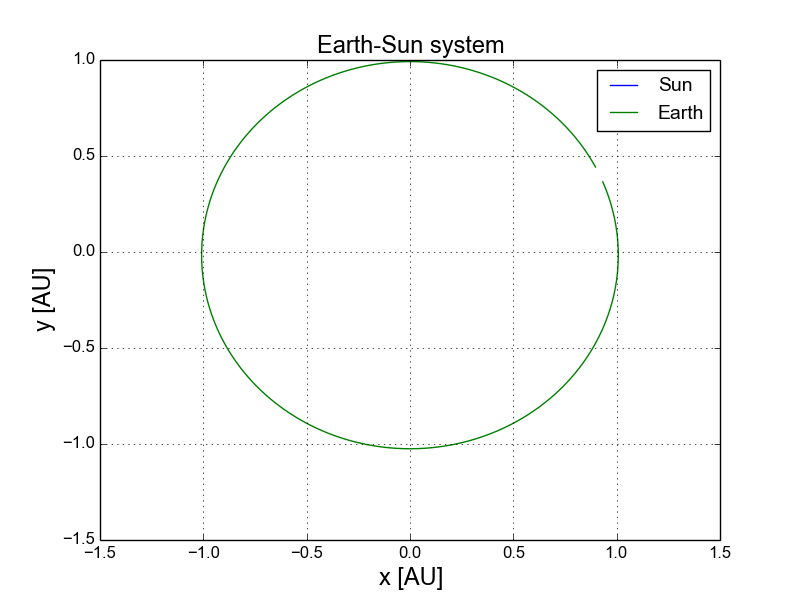
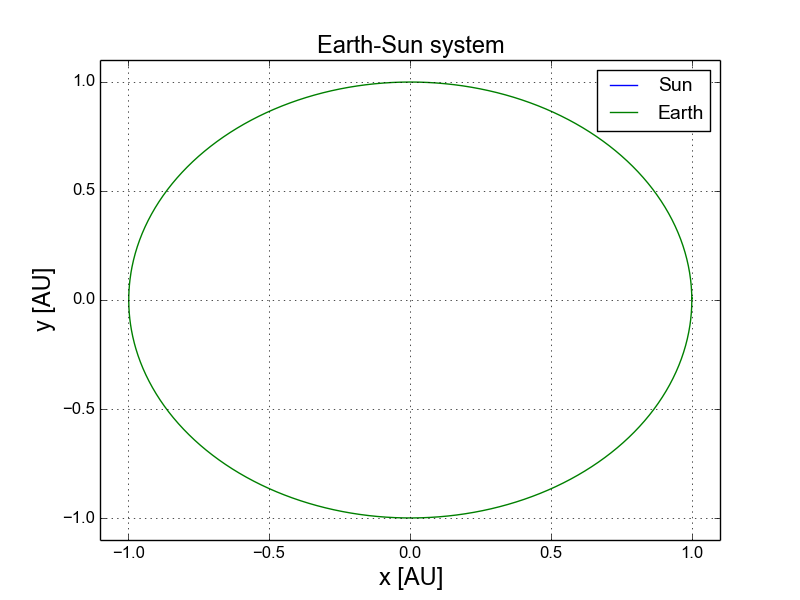
adding planets and 3d plot

diff --git a/src/main.cpp b/src/main.cpp
@@ -61,10 +61,8 @@ int main(int argc, char *argv[])
      *  - scale mass with the solar mass
      *  - scale distance and velocity to [AU] and [AU/day]? im confused
      *
-     * - Add velocity verlet integration and forward euler
      * - Write to file some way / solarsystem has such an elegant way of opening files only once :(
      * - WHAT THE FUCK IS EVEN WRITTEN TO FILE?????
-     * - And why does it unexpectedly finish????!?!??!!??!!?!???!?!?!11111
      * - We might have to manually set the Sun position in (0,0,0) each iteration for the first tasks
      *
      * - Maybe add folders in benchmarks for the different tasks, so as to make it more readable?
@@ -99,8 +97,8 @@ int main(int argc, char *argv[])
             v_y0 = atof(argv[3]);
         }
 
-        // Creating filename for this part
-        string filename = "../benchmarks/ES/positions_dt"+to_string(dt)+"_N"+to_string(num_timesteps)+"_vy"+to_string(v_y0)+".xyz";
+        // Creating filename for this task
+        string filename = "../benchmarks/ES/pos_dt"+to_string(dt)+"_N"+to_string(num_timesteps)+"_vy"+to_string(v_y0)+".xyz";
 
         solarSystem.createCelestialBody(vec3(0,0,0),vec3(0,0,0),1.0); // adding the sun
         // initializing some stuff
@@ -149,16 +147,20 @@ int main(int argc, char *argv[])
         // Adding objects to the solar system
         solarSystem.createCelestialBody(vec3(0,0,0),vec3(0,0,0),1.0); // adding the Sun
 
+        // Relative masses, in units [M_sun]
+        double M_sun = 2e30;             // mass of the Sun in kg
+        double M_earth = 6e24/M_sun;     // rel. mass of the Earth
+        double M_jupiter = 1.9e27/M_sun; // rel. mass of Jupiter
+
         // Adding the Earth
         vec3 pos_E = vec3(9.00219e-1, 4.36991e-1, -1.77691e-4);  // position [AU]
         vec3 vel_E = vec3(-7.76495e-3, 1.54282e-2, -4.06713e-7); // velocity [AU/day]
-        solarSystem.createCelestialBody(pos_E, vel_E*365, 3e-6); // adding the Earth
+        solarSystem.createCelestialBody(pos_E, vel_E*365.25, M_earth); // adding the Earth
 
         // Adding Jupiter
         vec3 pos_J = vec3(-5.42632, -4.82222e-1, 1.23357e-1);    // position [AU]
         vec3 vel_J = vec3(5.81068e-4, -7.16029e-3, 1.67576e-5);  // velocity [AU/day]
-
-        solarSystem.createCelestialBody(pos_J, vel_J*365, factor*1e-3); // adding Jupiter
+        solarSystem.createCelestialBody(pos_J, vel_J*365.25, factor*M_jupiter); // adding Jupiter
 
         solarSystem.writeToFile(filename); //initializing file
         Integrator integrator(dt,method);
@@ -177,10 +179,88 @@ int main(int argc, char *argv[])
 
     }
 
+    /////////////////////////////////////////////
+    ///   Final model of entire solar system  ///
+    /////////////////////////////////////////////
     else if(strcmp(argv[1], "WS") == 0)
     {
-        cout << "So I'm GLaD I got burned." << endl;
+        // Creating filename
+        string filename = "../benchmarks/WS/pos_dt"+to_string(dt)+"_N"+to_string(num_timesteps)+".xyz";
+
+        // Relative masses, in units [M_sun]
+        double M_sun = 2e30;              // mass of the Sun in kg
+        double M_mercury = 2.4e23/M_sun;  // rel. mass of Mercury
+        double M_venus = 4.9e24/M_sun;    // rel. mass of Venus
+        double M_earth = 6e24/M_sun;      // rel. mass of the Earth
+        double M_mars = 6.6e23/M_sun;     // rel. mass of Mars
+        double M_jupiter = 1.9e27/M_sun;  // rel. mass of Jupiter
+        double M_saturn = 5.5e26/M_sun;   // rel. mass of Saturn
+        double M_uranus = 8.8e25/M_sun;   // rel. mass of Uranus
+        double M_neptune = 1.03e26/M_sun; // rel. mass of Neptune
+        double M_pluto = 1.31e22/M_sun;   // rel. mass of Pluto
+
+        // Adding objects to the solar system
+        vec3 pos_sun = vec3( 3.557522499727856E-03,  3.436899814085439E-03, -1.596344425455737E-04); // position [AU]
+        vec3 vel_sun = vec3(-2.030857186518649E-06,  6.828431295519784E-06,  4.169177553390423E-08); // velocity [AU/day]
+        solarSystem.createCelestialBody(pos_sun, vel_sun, 1.0); // adding the Sun in solar system barycenter
+
+        // Adding Mercury
+        vec3 pos_mercury = vec3(-3.879399114091706E-01, -2.710305092518798E-02,  3.326156756039202E-02); // position [AU]
+        vec3 vel_mercury = vec3(-3.666413559516294E-03, -2.683296386126161E-02, -1.856913029011958E-03); // velocity [AU/day]
+        solarSystem.createCelestialBody(pos_mercury, vel_mercury*365.25, M_mercury); // adding Mercury
+
+        // Adding Venus
+        vec3 pos_venus = vec3( 2.768509256072073E-01, -6.707683947636957E-01, -2.517488922555787E-02);   // position [AU]
+        vec3 vel_venus = vec3( 1.860690284828718E-02,  7.536836731263053E-03, -9.705618181506076E-04);   // velocity [AU/day]
+        solarSystem.createCelestialBody(pos_venus, vel_venus*365.25, M_venus); // adding Venus
+
+        // Adding the Earth
+        vec3 pos_earth = vec3( 9.002187374164167E-01, 4.369907064244718E-01, -1.776909578696060E-04);    // position [AU]
+        vec3 vel_earth = vec3(-7.764951739652256E-03, 1.542821220223306E-02, -4.067127050855086E-07);    // velocity [AU/day]
+        solarSystem.createCelestialBody(pos_earth, vel_earth*365.25, M_earth); // adding the Earth
+
+        // Adding Mars
+        vec3 pos_mars = vec3( 1.193657284115136E+00, -6.978436624748694E-01, -4.406298715121766E-02);     // position [AU]
+        vec3 vel_mars = vec3( 7.634665383846734E-03,  1.326168661732281E-02,  9.038452721655709E-05);     // velocity [AU/day]
+        solarSystem.createCelestialBody(pos_mars, vel_mars*365.25, M_mars); // adding Mars
+
+        // Adding Jupiter
+        vec3 pos_jupiter = vec3(-5.426315241208865E+00, -4.822215431711254E-01, 1.233572936426657E-01);   // position [AU]
+        vec3 vel_jupiter = vec3( 5.810683650779558E-04, -7.160289109931362E-03, 1.675759064981599E-05);   // velocity [AU/day]
+        solarSystem.createCelestialBody(pos_jupiter, vel_jupiter*365.25, M_jupiter); // adding Jupiter
+
+        // Adding Saturn
+        vec3 pos_saturn = vec3(-2.246529956275636E+00, -9.779906769909475E+00,  2.594563214268305E-01);   // position [AU]
+        vec3 vel_saturn = vec3( 5.132048253878187E-03, -1.266819166886991E-03, -1.820892763587737E-04);   // velocity [AU/day]
+        solarSystem.createCelestialBody(pos_saturn, vel_saturn*365.25, M_saturn); // adding Saturn
+
+        // Adding Uranus
+        vec3 pos_uranus = vec3( 1.845714208857284E+01,  7.575248291656612E+00, -2.109811593159080E-01);   // position [AU]
+        vec3 vel_uranus = vec3(-1.522058331202997E-03,  3.455221416420103E-03,  3.261108191126768E-05);   // velocity [AU/day]
+        solarSystem.createCelestialBody(pos_uranus, vel_uranus*365.25, M_uranus); // adding Uranus
+
+        // Adding Neptune
+        vec3 pos_neptune = vec3( 2.826500658751187E+01, -9.910371276589974E+00, -4.473108323922165E-01);  // position [AU]
+        vec3 vel_neptune = vec3( 1.017401746439024E-03,  2.980597140971018E-03, -8.489925094644433E-05);  // velocity [AU/day]
+        solarSystem.createCelestialBody(pos_neptune, vel_neptune*365.25, M_neptune); // adding Neptune
+
+        // Adding Pluto
+        vec3 pos_pluto = vec3( 9.436138126711999E+00, -3.181728263243627E+01,  6.751503215275325E-01);    // position [AU]
+        vec3 vel_pluto = vec3( 3.069571857572786E-03,  2.445305051568931E-04, -9.024173240192213E-04);    // velocity [AU/day]
+        solarSystem.createCelestialBody(pos_pluto, vel_pluto*365.25, M_pluto); // adding Pluto
+
+        // Integrating the system
+        solarSystem.writeToFile(filename); //initializing file
+        Integrator integrator(dt,method);
+
+        for (int i=0; i<num_timesteps; i++)
+        {
+            integrator.integrateOneStep(solarSystem);
+            solarSystem.writeToFile(filename);
+        }
+
     }
+
     else if(strcmp(argv[1], "GM") == 0)
     {
         cout << "Think of all the things we learned." << endl;
@@ -193,3 +273,5 @@ int main(int argc, char *argv[])
 
     return 0;
 }
+
+

diff --git a/src/solar_system.py b/src/solar_system.py
@@ -1,54 +1,76 @@
 from pylab import *
+import sys
 
-N = 1000 # need this, need to change naming convention of files
-# if name contains N, we could just fill arrays instead of lists
-#filename = '../benchmarks/ES/positions_dt0.001000_N1000_vy6.280000.xyz'
-filename = '../benchmarks/ESJ/pos_dt0.001000_N1000_m1.000000.xyz'
-data = open(filename,'r')
-
-# I am most definitely overcomplicating this
-i = 0
-j = 0
-k = 0
-m = 0
-for line in data:
-    if i == 0:
-        num_bodies = int(line)
-        positions = [zeros((N,3)) for a in range(num_bodies)]
-        j += 1
-    elif i == j*(num_bodies+2):
-        k = 0
-        j += 1
-    elif not line.startswith('Comment'):
-        a = line.split(' ')
-        positions[k][int(m)] = (array([float(a[1]),float(a[2]),float(a[3])]))
-
-        k += 1
-        m += 1./num_bodies
-    i += 1
-
-# Plot ES
-
-plot(positions[0][:,0],positions[0][:,1],label='Sun')
-plot(positions[1][:,0],positions[1][:,1],label='Earth')
-xlabel('x [AU]',size=17)
-ylabel('y [AU]',size=17)
-title('Earth-Sun system',size=17)
-grid('on')
-legend(fontsize=14)
-savefig('../figures/earth_sun.png')
-show()
+def read_file(filename, N):
+    data = open(filename,'r')
+    # I am most definitely overcomplicating this
+    i = 0
+    j = 0
+    k = 0
+    m = 0
+    for line in data:
+        if i == 0:
+            num_bodies = int(line)
+            positions = [zeros((N,3)) for a in range(num_bodies)]
+            j += 1
+        elif i == j*(num_bodies+2):
+            k = 0
+            j += 1
+        elif not line.startswith('Comment'):
+            a = line.split(' ')
+            positions[k][int(m)] = (array([float(a[1]),float(a[2]),float(a[3])]))
+            k += 1
+            m += 1./num_bodies
+        i += 1
+        
+    return positions
 
 
-# Plot ESJ
+if __name__=='__main__':
+    try:
+        task = sys.argv[1]
+    except IndexError:
+        task = 'ESJ'
 
-plot(positions[0][:,0],positions[0][:,1],label='Sun')
-plot(positions[1][:,0],positions[1][:,1],label='Earth')
-plot(positions[2][:,0],positions[2][:,1],label='Jupiter')
-xlabel('x [AU]',size=17)
-ylabel('y [AU]',size=17)
-title('Earth-Sun-Jupiter system',size=17)
-grid('on')
-legend(fontsize=14)
-savefig('../figures/earth_sun_jupiter.png')
-show()
+    N = 1000 # need this, need to change naming convention of files
+    # if name contains N, we could just fill arrays instead of lists
+
+    # Plot ES
+    if task=='ES':
+        filename = '../benchmarks/ES/pos_dt0.001000_N1000_vy6.280000.xyz'
+        positions = read_file(filename,N)
+
+        plot(positions[0][:,0],positions[0][:,1],label='Sun')
+        plot(positions[1][:,0],positions[1][:,1],label='Earth')
+        xlabel('x [AU]',size=17)
+        ylabel('y [AU]',size=17)
+        title('Earth-Sun system',size=17)
+        grid('on')
+        legend(fontsize=14)
+        xlim([-1.1,1.1])
+        ylim([-1.1,1.1])
+        savefig('../figures/earth_sun.png')
+        show()
+
+
+    # Plot ESJ
+    if task=='ESJ':
+        dt = '0.001000'
+        m = 1
+        filename = '../benchmarks/ESJ/pos_dt%s_N%d_m%.6f.xyz'%(dt,N,m)
+        positions = read_file(filename,N)
+
+        plot(positions[0][0,0],positions[0][0,1],'oy',ms=10,label='Sun')
+        plot(positions[1][0,0],positions[1][0,1],'ob',ms=10,label='Earth')
+        plot(positions[2][0,0],positions[2][0,1],'og',ms=10,label='Jupiter')
+        
+        plot(positions[0][:,0],positions[0][:,1],'y')
+        plot(positions[1][:,0],positions[1][:,1],'b')
+        plot(positions[2][:,0],positions[2][:,1],'g')
+        xlabel('x [AU]',size=17)
+        ylabel('y [AU]',size=17)
+        title('Earth-Sun-Jupiter system',size=17)
+        grid('on')
+        legend(numpoints=1,fontsize=14)
+        savefig('../figures/earth_sun_jupiter.png')
+        show()

diff --git a/src/plot3d.py b/src/plot3d.py
@@ -1,0 +1,58 @@
+from pylab import *
+from solar_system import *
+from mpl_toolkits.mplot3d import Axes3D
+
+# Makes 3D plots of the desired systems
+bodies = ['Sun','Mercury','Venus','Earth','Mars','Jupiter',
+           'Saturn','Uranus','Neptune','Pluto']
+colors = ['y','k','w','b','r','m','g','c','0.3','0.8']
+
+task = 'WS'
+N = 1000
+
+if task=='ESJ':
+    dt = '0.010000'
+    m = 1
+    filename = '../benchmarks/ESJ/pos_dt%s_N%d_m%.6f.xyz'%(dt,N,m)
+    pos = read_file(filename,N)
+    
+    fig3d = figure()
+    ax3d = fig3d.add_subplot(111,projection='3d')
+    ax3d.plot(pos[0][0:2,0],pos[0][0:2,1],pos[0][0:2,2],'oy',ms=10,label='Sun')
+    ax3d.plot(pos[1][0:2,0],pos[1][0:2,1],pos[1][0:2,2],'ob',ms=10,label='Earth')
+    ax3d.plot(pos[2][0:2,0],pos[2][0:2,1],pos[2][0:2,2],'og',ms=10,label='Jupiter')
+    
+    ax3d.plot(pos[0][:,0],pos[0][:,1],pos[0][:,2],'y')
+    ax3d.plot(pos[1][:,0],pos[1][:,1],pos[1][:,2],'b')
+    ax3d.plot(pos[2][:,0],pos[2][:,1],pos[2][:,2],'g')
+    ax3d.set_xlabel('x [AU]',size=15)
+    ax3d.set_ylabel('y [AU]',size=15)
+    ax3d.set_title(r'Earth-Sun-Jupiter system in 3D, %d$\cdot M_J$'%m,size=15)
+    #grid('on')
+    ax3d.legend(numpoints=1,fontsize=14)
+    fig3d.savefig('../figures/earth_sun_jupiter.png')
+    show()
+        
+
+if task=='WS':
+    dt = '0.010000'
+    m = 1
+    filename = '../benchmarks/WS/pos_dt%s_N%d.xyz'%(dt,N)
+    pos = read_file(filename,N)
+    
+    fig3d = figure()
+    ax3d = fig3d.add_subplot(111,projection='3d')
+
+    for i in range(len(pos)-3):
+#        ax3d.plot(pos[i][0],pos[i][0],'o',color=colors[i],ms=10,label=bodies[i])
+    
+        ax3d.plot(pos[i][:,0],pos[i][:,1],pos[i][:,2],color=colors[i])
+
+    ax3d.set_xlabel('x [AU]',size=15)
+    ax3d.set_ylabel('y [AU]',size=15)
+    ax3d.set_title(r'Full solar system in 3D',size=15)
+    ax3d.set_zlim(-5,5)
+    #grid('on')
+ #   ax3d.legend(numpoints=1,fontsize=14)
+    fig3d.savefig('../figures/whole_system.png')
+    show()
